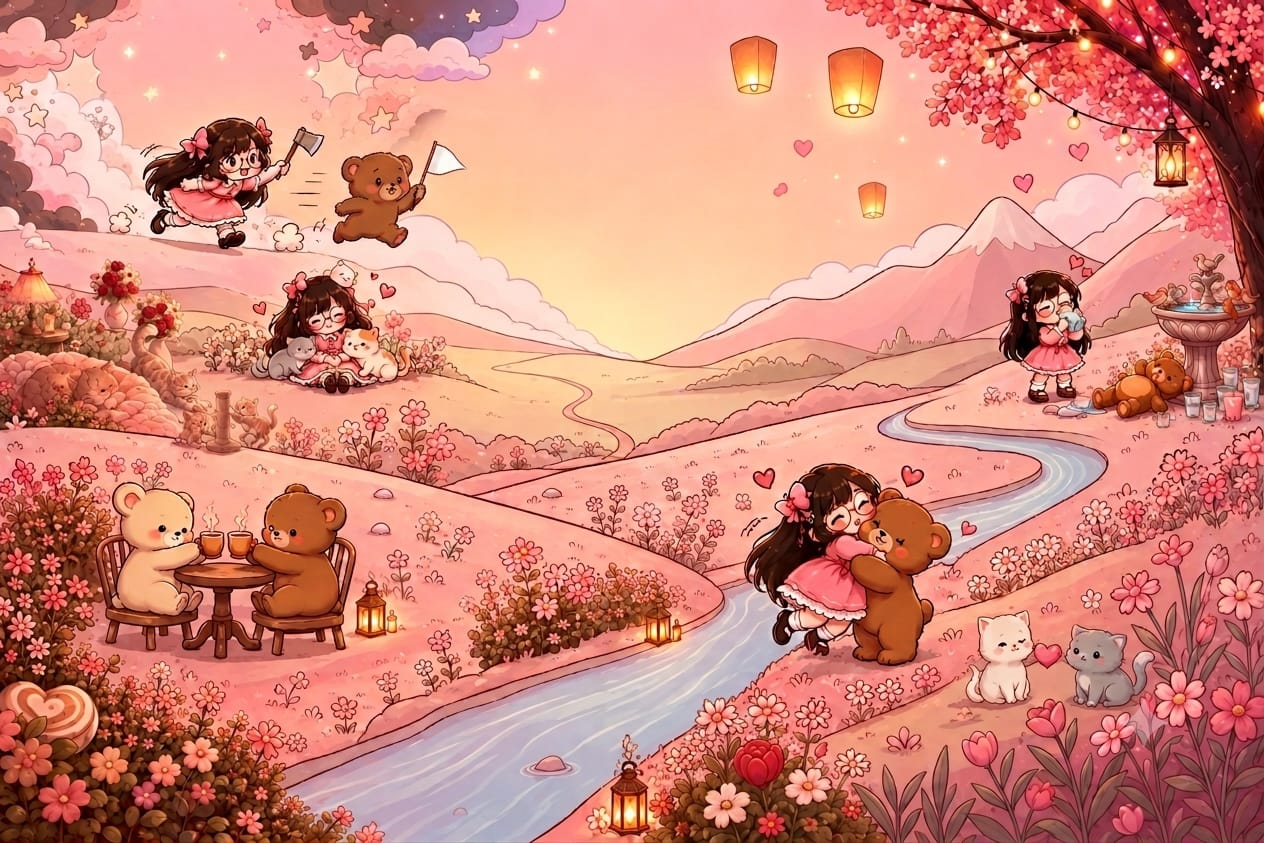
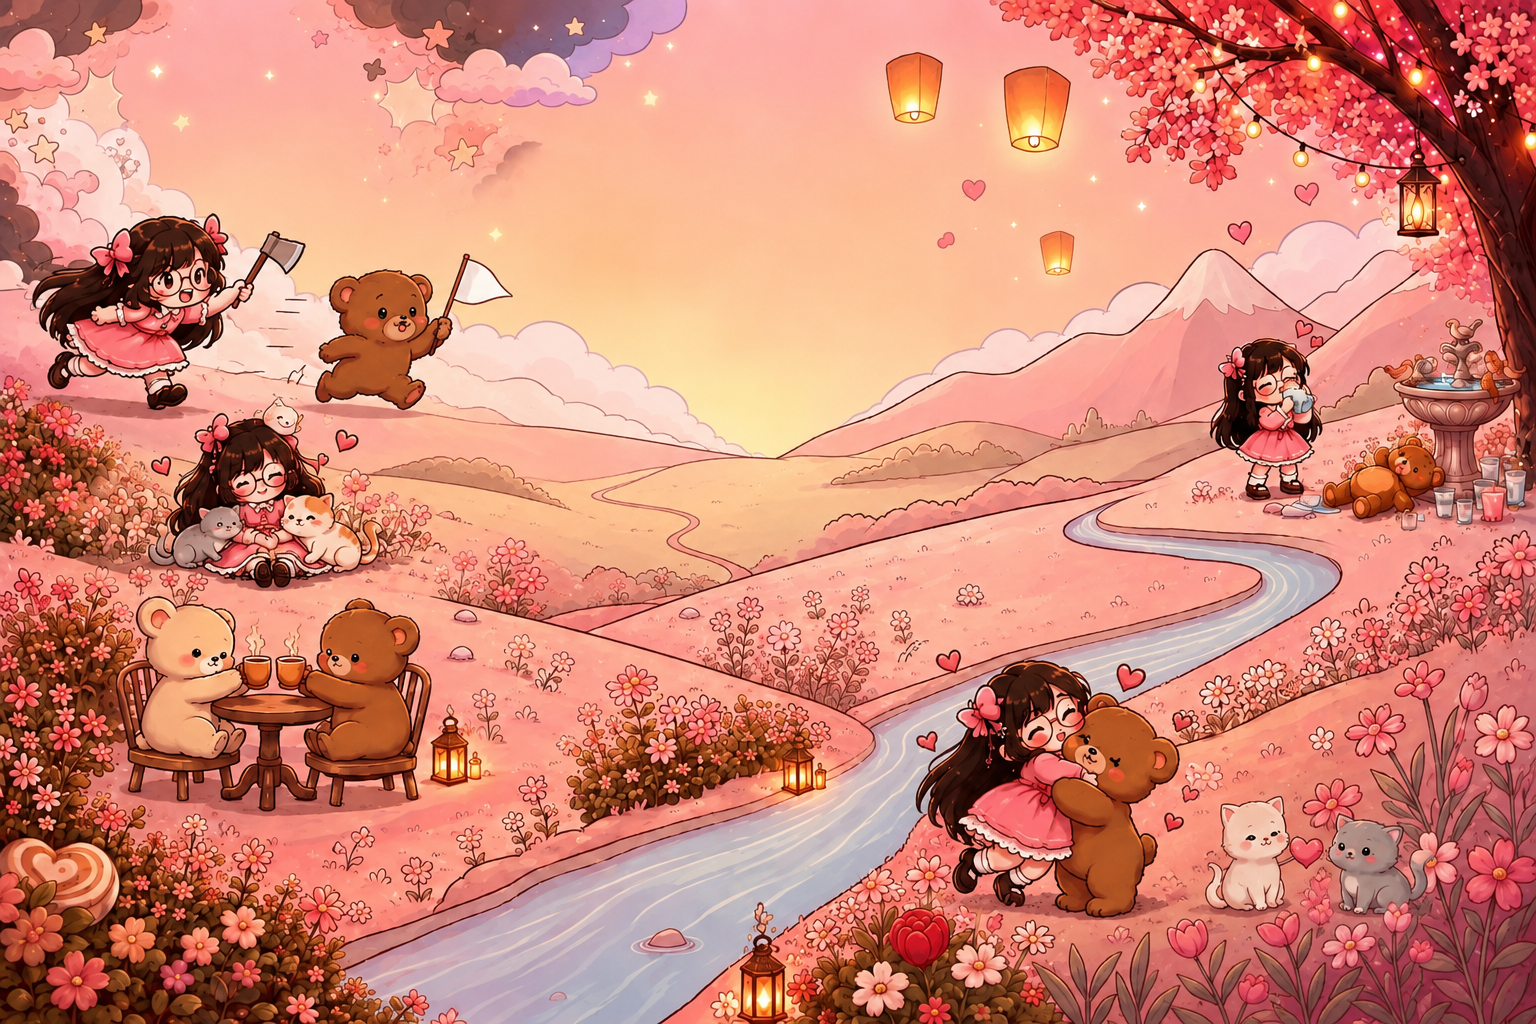
Update Backgrounds
Backgrounds have been updated.

diff --git a/src/main/java/loveCounter/UpdateManager.java b/src/main/java/loveCounter/UpdateManager.java
@@ -14,7 +14,7 @@ import java.util.Optional;
 public class UpdateManager {
     
     // Uygulamanın o anki mevcut sürümü
-    private static final String CURRENT_VERSION = "v1.0";
+    private static final String CURRENT_VERSION = "v1.0.0";
     
     // GitHub'da tutacağın basit metin dosyasının kalıcı (raw) linki
     // (Bunu birazdan birlikte ayarlayacağız, şimdilik böyle kalabilir)

diff --git a/src/main/java/loveCounter/UIManager.java b/src/main/java/loveCounter/UIManager.java
@@ -858,6 +858,7 @@ public class UIManager {
 	    msgLabel.setWrapText(true); // Metin kutuya sığmazsa alt satıra geç
 	    msgLabel.setMaxWidth(560);
 	    msgLabel.setTextAlignment(TextAlignment.CENTER);
+	    msgLabel.setAlignment(Pos.CENTER);
 	    msgLabel.setLineSpacing(-25);
 	    msgLabel.setTranslateY(15);
 	    msgLabel.styleProperty().bind(Bindings.concat(
